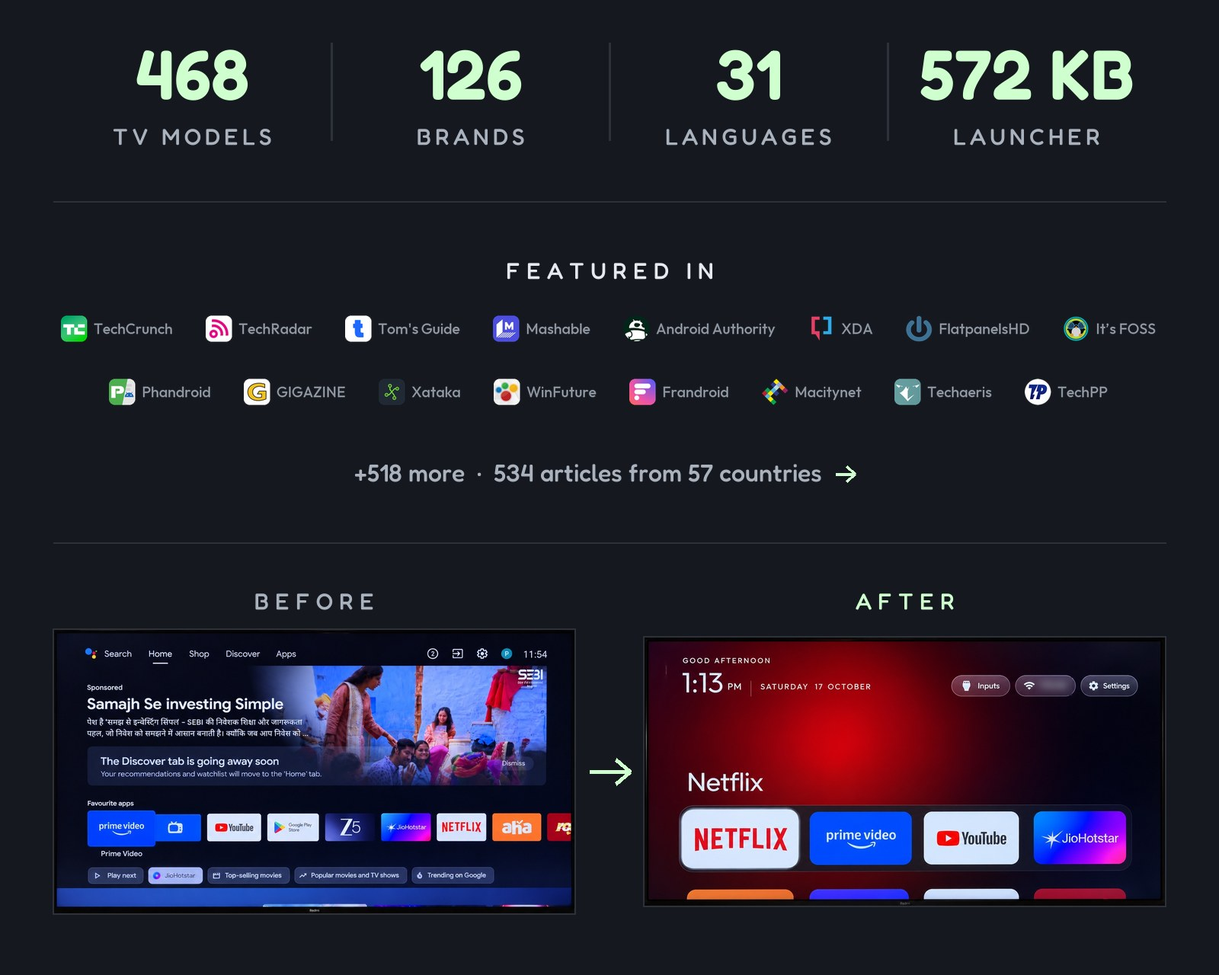
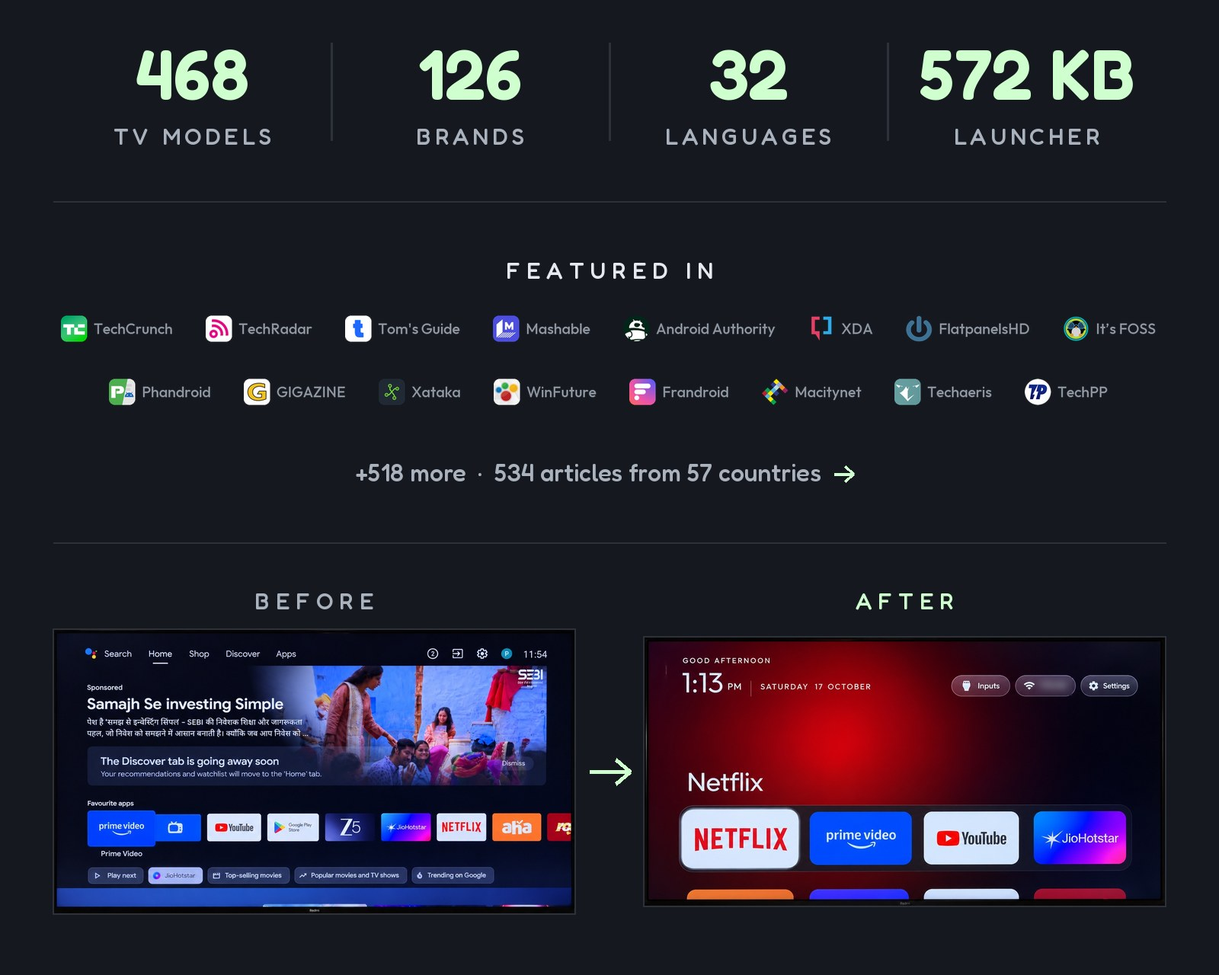
Launcher: add Greek translation

diff --git a/tests/test_readme_language_count.py b/tests/test_readme_language_count.py
@@ -54,7 +54,7 @@ LANG_ROW = {
     "README.nl.md": "talen",
     "README.pt-BR.md": "idiomas",
     "README.tr.md": "dil",
-    "README.uk.md": "мова",
+    "README.uk.md": ("мова", "мови", "мов"),
     "README.uz.md": "til",
 }
 
@@ -75,8 +75,9 @@ def rows(text):
 
 def claimed(text, word):
     """The number the page states in its `<word>` row, or None when it states none."""
+    words = {word} if isinstance(word, str) else set(word)
     for number, label in rows(text):
-        if label == word:
+        if label in words:
             return number
     return None
 
@@ -114,14 +115,16 @@ class LanguageCountTest(unittest.TestCase):
         writes the count in a word this file does not carry (a new translation's own, as README.uz.md's
         `til` was beside the Turkish `dil`) is out of its reach, and that word is the line to add here.
         """
-        words = set(LANG_ROW.values())
+        words = {word for value in LANG_ROW.values()
+                 for word in ({value} if isinstance(value, str) else value)}
         for page in front_pages():
             for number, label in rows(page.read_text(encoding="utf-8")):
                 if label not in words:
                     continue
                 with self.subTest(page=page.name, word=label):
-                    self.assertEqual(
-                        LANG_ROW.get(page.name), label,
+                    self.assertTrue(
+                        label in ({LANG_ROW[page.name]} if isinstance(LANG_ROW.get(page.name), str)
+                                  else set(LANG_ROW.get(page.name, ()))),
                         f"{page.name} states the language count as `{label}` and is not in this "
                         f"file's table, so nothing reads its {number}")
 

diff --git a/tools/readme_stats.py b/tools/readme_stats.py
@@ -84,7 +84,7 @@ try:
 except ImportError:
     sys.exit("readme_stats.py needs Pillow: tools/venv/bin/pip install -r tools/requirements-perf.txt")
 
-STATS = [("468", "TV MODELS"), ("126", "BRANDS"), ("31", "LANGUAGES"), ("572 KB", "LAUNCHER")]
+STATS = [("468", "TV MODELS"), ("126", "BRANDS"), ("32", "LANGUAGES"), ("572 KB", "LAUNCHER")]
 W, H = 1600, 240
 img = Image.new("RGB", (W, H), "#15181e"); d = ImageDraw.Draw(img)
 def f(size, wt):

diff --git a/tests/test_locales_registered.py b/tests/test_locales_registered.py
@@ -45,6 +45,7 @@ NAMES = {
     "cs": "Czech",
     "da": "Danish",
     "de": "German",
+    "el": "Greek",
     "es": "Spanish",
     "es-419": "Latin American Spanish",
     "fi": "Finnish",

diff --git a/README.uk.md b/README.uk.md
@@ -20,7 +20,7 @@
 </p>
 
 <p align="center">
-  <a href="docs/PRESS.md"><img src="docs/card.jpg" alt="468 моделей телевізорів · 126 брендів · 31 мова · лончер на 572 КБ. Про нас писали TechCrunch, TechRadar, Tom's Guide, Mashable, Android Authority, XDA, FlatpanelsHD, It's FOSS, Phandroid, GIGAZINE, Xataka, WinFuture, Frandroid, Macitynet, Techaeris, TechPP та ще 518 видань: 534 статті з 57 країн. Було: стандартний головний екран Google TV зі спонсорською рекламою. Стало: лончер Clean Your TV." width="800"></a>
+  <a href="docs/PRESS.md"><img src="docs/card.jpg" alt="468 моделей телевізорів · 126 брендів · 32 мови · лончер на 572 КБ. Про нас писали TechCrunch, TechRadar, Tom's Guide, Mashable, Android Authority, XDA, FlatpanelsHD, It's FOSS, Phandroid, GIGAZINE, Xataka, WinFuture, Frandroid, Macitynet, Techaeris, TechPP та ще 518 видань: 534 статті з 57 країн. Було: стандартний головний екран Google TV зі спонсорською рекламою. Стало: лончер Clean Your TV." width="800"></a>
 </p>
 
 ## З чого почати
@@ -285,7 +285,7 @@ Xiaomi (PatchWall). Передайте `STOCK_LAUNCHER=<package>` (`-StockLaunch
 | **Налаштування** | Порядок дока, приховані застосунки, застосунок ефірного ТБ, від 4 до 7 плиток у рядку, зменшений рух. Усе в [`config.xml`](launcher/app/src/main/res/values/config.xml) |
 | **Налаштування на телевізорі** | Утримайте OK на «Налаштуваннях», щоб відкрити налаштування лончера. Необов'язковий `launcher_settings_button` робить так, що звичайне натискання відкриває їх одразу; налаштування телевізора лишаються на сторінці налаштувань і на своїй плитці |
 | **Теми** | Тло, шпалери й розкладка з `config.json`, надісланого через Wi-Fi, без перезбирання. У [`themes/`](themes/) постачається двадцять дев'ять, включно з вбудованою `default/` |
-| **31 мова** | Дотримується мови телевізора, з повністю дзеркальним розкладом справа наліво для івриту |
+| **32 мови** | Дотримується мови телевізора, з повністю дзеркальним розкладом справа наліво для івриту |
 | **Бібліотека застосунків** | Необов'язково: перегляд усіх встановлених застосунків і додавання чи прибирання ярликів із головного екрана. Дивіться [посібник із бібліотеки застосунків](docs/app-library.md) |
 | **Меню плитки** | Увімкнено за замовчуванням (`tile_menu`): утримайте OK на плитці для «Перемістити» та «Про застосунок», а з увімкненою бібліотекою застосунків — ще й «Прибрати з головного». Вимкнено — утримання OK відкриває «Про застосунок» |
 | **Картки-модулі** | Будь-який застосунок на телевізорі може запропонувати власну плитку; ви схвалюєте кожну один раз. Дивіться [`docs/modules.md`](docs/modules.md) |

diff --git a/README.nl.md b/README.nl.md
@@ -32,7 +32,7 @@
 </p>
 
 <p align="center">
-  <a href="docs/PRESS.md"><img src="docs/card.jpg" alt="468 tv-modellen · 126 merken · 31 talen · launcher van 572 KB. Genoemd in TechCrunch, TechRadar, Tom's Guide, Mashable, Android Authority, XDA, FlatpanelsHD, It's FOSS, Phandroid, GIGAZINE, Xataka, WinFuture, Frandroid, Macitynet, Techaeris, TechPP en nog 518 media: 534 artikelen uit 57 landen. Voorheen: het standaard Google TV-startscherm met een gesponsorde advertentie. Daarna: de Clean Your TV-launcher." width="800"></a>
+  <a href="docs/PRESS.md"><img src="docs/card.jpg" alt="468 tv-modellen · 126 merken · 32 talen · launcher van 572 KB. Genoemd in TechCrunch, TechRadar, Tom's Guide, Mashable, Android Authority, XDA, FlatpanelsHD, It's FOSS, Phandroid, GIGAZINE, Xataka, WinFuture, Frandroid, Macitynet, Techaeris, TechPP en nog 518 media: 534 artikelen uit 57 landen. Voorheen: het standaard Google TV-startscherm met een gesponsorde advertentie. Daarna: de Clean Your TV-launcher." width="800"></a>
 </p>
 
 **De virale tweet:** [x.com/gathint/status/2111379569030939102](https://x.com/gathint/status/2111379569030939102)
@@ -728,7 +728,7 @@ De **tv** moet Android 8.0 (API 26) of nieuwer gebruiken. `minSdk` stelt de mini
 | **Configuratie** | Volgorde van het dock, verborgen apps, Live-tv-app, 4 tot 7 tegels per rij en minder beweging. Alles staat in [`config.xml`](launcher/app/src/main/res/values/config.xml). |
 | **Instellingen op de tv** | Houd OK ingedrukt op Instellingen om de launcherinstellingen te openen. Met de optionele instelling `launcher_settings_button` opent een gewone klik ze direct; de tv-instellingen blijven beschikbaar via de instellingenpagina en de tegel van die app. |
 | **Thema's** | Achtergrond, wallpaper en indeling komen uit een via wifi verzonden `config.json`; opnieuw bouwen is niet nodig. In [`themes/`](themes/) staan negenentwintig thema's, inclusief het ingebouwde `default/`. |
-| **31 talen** | Volgt de taal van de tv, met een volledig gespiegeld rechts-naar-links ontwerp voor Hebreeuws. |
+| **32 talen** | Volgt de taal van de tv, met een volledig gespiegeld rechts-naar-links ontwerp voor Hebreeuws. |
 | **Appbibliotheek** | Optioneel: bekijk alle geïnstalleerde apps en voeg snelkoppelingen op het startscherm toe of verwijder ze. Zie [de handleiding voor de appbibliotheek](docs/app-library.md). |
 | **Tegelmenu** | Standaard aan (`tile_menu`): houd OK ingedrukt op een tegel voor Verplaatsen en App-info, en met de appbibliotheek aan ook Verwijderen van startscherm. Staat dit uit, dan opent lang indrukken de app-info. |
 | **Modulekaarten** | Elke tv-app kan een eigen tegel aanbieden; je keurt elke app één keer goed. Zie [`docs/modules.md`](docs/modules.md). |

diff --git a/README.tr.md b/README.tr.md
@@ -20,7 +20,7 @@
 </p>
 
 <p align="center">
-  <a href="docs/PRESS.md"><img src="docs/card.jpg" alt="468 TV modeli · 126 marka · 31 dil · 572 KB başlatıcı. Yer aldığı yayınlar: TechCrunch, TechRadar, Tom's Guide, Mashable, Android Authority, XDA, FlatpanelsHD, It's FOSS, Phandroid, GIGAZINE, Xataka, WinFuture, Frandroid, Macitynet, Techaeris, TechPP ve 518 yayın daha: 57 ülkeden 534 makale. Önce: sponsorlu reklam içeren standart Google TV ana ekranı. Sonra: Clean Your TV başlatıcısı." width="800"></a>
+  <a href="docs/PRESS.md"><img src="docs/card.jpg" alt="468 TV modeli · 126 marka · 32 dil · 572 KB başlatıcı. Yer aldığı yayınlar: TechCrunch, TechRadar, Tom's Guide, Mashable, Android Authority, XDA, FlatpanelsHD, It's FOSS, Phandroid, GIGAZINE, Xataka, WinFuture, Frandroid, Macitynet, Techaeris, TechPP ve 518 yayın daha: 57 ülkeden 534 makale. Önce: sponsorlu reklam içeren standart Google TV ana ekranı. Sonra: Clean Your TV başlatıcısı." width="800"></a>
 </p>
 
 ## Buradan başlayın
@@ -284,7 +284,7 @@ bir cihazda neyin kaldığı [Sorun giderme](docs/TROUBLESHOOTING.md) belgesinde
 | **Yapılandırma** | Dock sırası, gizli uygulamalar, Canlı TV uygulaması, satır başına 4 ile 7 arası kutucuk, azaltılmış hareket. Hepsi [`config.xml`](launcher/app/src/main/res/values/config.xml) içinde |
 | **TV'deki ayarlar** | Başlatıcı ayarları için Ayarlar üzerinde OK'u basılı tutun. İsteğe bağlı `launcher_settings_button`, normal bir tıklamanın onları doğrudan açmasını sağlar; TV ayarları ayarlar sayfasında ve kendi uygulama kutucuğunda kalır. |
 | **Temalar** | Wi-Fi üzerinden gönderilen bir `config.json` ile arka plan, duvar kâğıdı ve düzen, yeniden derleme yok. Yerleşik `default/` dahil 29 tema [`themes/`](themes/) içinde gelir |
-| **31 dil** | TV'nin diline uyar; İbranice için tamamen aynalanmış, sağdan sola bir düzen sunar |
+| **32 dil** | TV'nin diline uyar; İbranice için tamamen aynalanmış, sağdan sola bir düzen sunar |
 | **Uygulama kitaplığı** | İsteğe bağlı: yüklü tüm uygulamalara göz atın ve Ana ekran kısayolları ekleyin veya kaldırın. Bkz. [uygulama kitaplığı kılavuzu](docs/app-library.md) |
 | **Kutucuk menüsü** | Varsayılan olarak açık (`tile_menu`): Taşı ve Uygulama bilgisi için bir kutucukta OK'u basılı tutun; uygulama kitaplığı açıksa Ana ekrandan kaldır da çıkar. Kapalıyken OK'u basılı tutmak Uygulama bilgisini açar |
 | **Modül kartları** | Herhangi bir TV uygulaması kendi kutucuğunu sunabilir; her birini bir kez onaylarsınız. Bkz. [`docs/modules.md`](docs/modules.md) |

diff --git a/README.de.md b/README.de.md
@@ -20,7 +20,7 @@
 </p>
 
 <p align="center">
-  <a href="docs/PRESS.md"><img src="docs/card.jpg" alt="468 TV-Modelle · 126 Marken · 31 Sprachen · Launcher mit 572 KB. Erwähnt in TechCrunch, TechRadar, Tom's Guide, Mashable, Android Authority, XDA, FlatpanelsHD, It's FOSS, Phandroid, GIGAZINE, Xataka, WinFuture, Frandroid, Macitynet, Techaeris, TechPP und 518 weitere: 534 Artikel aus 57 Ländern. Vorher: der Google-TV-Startbildschirm mit einer bezahlten Anzeige. Nachher: der Clean-Your-TV-Launcher." width="800"></a>
+  <a href="docs/PRESS.md"><img src="docs/card.jpg" alt="468 TV-Modelle · 126 Marken · 32 Sprachen · Launcher mit 572 KB. Erwähnt in TechCrunch, TechRadar, Tom's Guide, Mashable, Android Authority, XDA, FlatpanelsHD, It's FOSS, Phandroid, GIGAZINE, Xataka, WinFuture, Frandroid, Macitynet, Techaeris, TechPP und 518 weitere: 534 Artikel aus 57 Ländern. Vorher: der Google-TV-Startbildschirm mit einer bezahlten Anzeige. Nachher: der Clean-Your-TV-Launcher." width="800"></a>
 </p>
 
 ## Einstieg
@@ -262,7 +262,7 @@ Gerät übrig bleibt, steht in der [Fehlerbehebung](docs/TROUBLESHOOTING.md).
 | **Einrichten** | Dock-Reihenfolge, versteckte Apps, Live-TV-App, 4 bis 7 Kacheln je Zeile, reduzierte Bewegung. Alles in [`config.xml`](launcher/app/src/main/res/values/config.xml) |
 | **Einstellungen am Fernseher** | OK auf Einstellungen halten für die Launcher-Einstellungen. Ein optionales `launcher_settings_button` lässt einen normalen Klick sie direkt öffnen; die TV-Einstellungen bleiben auf der Einstellungsseite und ihrer App-Kachel. |
 | **Themes** | Hintergrund, Wallpaper und Layout aus einer `config.json`, über WLAN aufgespielt, ohne neuen Build. Neunundzwanzig liegen in [`themes/`](themes/), das eingebaute `default/` mitgerechnet |
-| **31 Sprachen** | Folgt der Sprache des Fernsehers, mit vollständig gespiegeltem Layout von rechts nach links für Hebräisch |
+| **32 Sprachen** | Folgt der Sprache des Fernsehers, mit vollständig gespiegeltem Layout von rechts nach links für Hebräisch |
 | **App-Bibliothek** | Optional: jede installierte App durchsehen und Home-Verknüpfungen hinzufügen oder entfernen. Siehe [die Anleitung zur App-Bibliothek](docs/app-library.md) |
 | **Kachelmenü** | Standardmäßig an (`tile_menu`): OK auf einer Kachel halten für Verschieben und App-Info, mit eingeschalteter App-Bibliothek auch Von Home entfernen. Aus: OK halten öffnet App-Info |
 | **Modul-Karten** | Jede TV-App kann eine eigene Kachel anbieten; du stimmst jeder einmal zu. Siehe [`docs/modules.md`](docs/modules.md) |

diff --git a/README.md b/README.md
@@ -32,7 +32,7 @@
 </p>
 
 <p align="center">
-  <a href="docs/PRESS.md"><img src="docs/card.jpg" alt="468 TV models · 126 brands · 31 languages · 572 KB launcher. Featured in TechCrunch, TechRadar, Tom's Guide, Mashable, Android Authority, XDA, FlatpanelsHD, It's FOSS, Phandroid, GIGAZINE, Xataka, WinFuture, Frandroid, Macitynet, Techaeris, TechPP and 518 more: 534 articles from 57 countries. Before: stock Google TV home with a sponsored ad. After: the Clean Your TV launcher." width="800"></a>
+  <a href="docs/PRESS.md"><img src="docs/card.jpg" alt="468 TV models · 126 brands · 32 languages · 572 KB launcher. Featured in TechCrunch, TechRadar, Tom's Guide, Mashable, Android Authority, XDA, FlatpanelsHD, It's FOSS, Phandroid, GIGAZINE, Xataka, WinFuture, Frandroid, Macitynet, Techaeris, TechPP and 518 more: 534 articles from 57 countries. Before: stock Google TV home with a sponsored ad. After: the Clean Your TV launcher." width="800"></a>
 </p>
 
 ## Start here
@@ -299,7 +299,7 @@ set is in [Troubleshooting](docs/TROUBLESHOOTING.md).
 | **Configure** | Dock order, hidden apps, Live TV app, 4 to 7 tiles per row, reduced motion. All in [`config.xml`](launcher/app/src/main/res/values/config.xml) |
 | **Settings on the TV** | Hold OK on Settings for launcher settings. Optional `launcher_settings_button` makes a normal click open them directly; TV settings remain on the settings page and their app tile. |
 | **Themes** | Background, wallpaper and layout from a `config.json` pushed over Wi-Fi, no rebuild. Twenty-nine ship in [`themes/`](themes/), the built-in `default/` included |
-| **31 languages** | Follows the TV's language, with a fully mirrored right-to-left layout for Hebrew |
+| **32 languages** | Follows the TV's language, with a fully mirrored right-to-left layout for Hebrew |
 | **App library** | Optional: browse every installed app and add or remove Home shortcuts. See [the app library guide](docs/app-library.md) |
 | **Tile menu** | On by default (`tile_menu`): hold OK on a tile for Move and App info, plus Remove from Home when the app library is on. Off, holding OK opens App info |
 | **Module cards** | Any TV app can offer its own tile; you approve each one once. See [`docs/modules.md`](docs/modules.md) |

diff --git a/README.he.md b/README.he.md
@@ -239,7 +239,7 @@ TV_HOST=192.168.1.50 tools/venv/bin/python -I tools/privacy.py
 | **התאמה אישית** | סדר המועדפים, אפליקציות מוסתרות, אפליקציית שידור חי, 4 עד 7 אריחים בשורה והפחתת תנועה. ההגדרות נמצאות ב־[config.xml](launcher/app/src/main/res/values/config.xml). |
 | **הגדרות בטלוויזיה** | לחיצה ארוכה על OK בכפתור ההגדרות פותחת את הגדרות מסך הבית. עם <code dir="ltr">launcher_settings_button</code> מספיקה לחיצה רגילה. הגדרות הטלוויזיה זמינות גם מדף ההגדרות ומאריח האפליקציה. |
 | **ערכות עיצוב** | רקע, תמונה ופריסה מקובץ <code dir="ltr">config.json</code> שנשלח דרך הרשת. יש 29 ערכות ב־[themes](themes/), כולל ברירת המחדל. |
-| **31 שפות** | השפה נקבעת לפי הטלוויזיה. בעברית הפריסה מוצגת מימין לשמאל. |
+| **32 שפות** | השפה נקבעת לפי הטלוויזיה. בעברית הפריסה מוצגת מימין לשמאל. |
 | **ספריית אפליקציות** | אפשר לדפדף בכל האפליקציות המותקנות ולהוסיף או להסיר קיצורי דרך ממסך הבית. [מדריך](docs/app-library.md) |
 | **תפריט אריח** | <code dir="ltr">tile_menu</code> מופעל כברירת מחדל. לחיצה ארוכה על OK מאפשרת להזיז אריח ולפתוח פרטי אפליקציה. כשספריית האפליקציות מופעלת אפשר גם להסיר את האריח מהבית. כשהתפריט כבוי, לחיצה ארוכה פותחת את פרטי האפליקציה. |
 | **כרטיסי תוספים** | אפליקציות יכולות להציע אריח שמוצג לאחר אישור חד־פעמי. [מפרט הכרטיסים](docs/modules.md) |

diff --git a/README.es.md b/README.es.md
@@ -220,7 +220,7 @@ Una pantalla de inicio nativa y muy ligera para Android TV: **unos 572 KB**, pro
 | **Configuración** | Orden del dock, aplicaciones ocultas, app de TV en directo, de 4 a 7 elementos por fila y animaciones reducidas. Todo definido en [`config.xml`](launcher/app/src/main/res/values/config.xml). |
 | **Ajustes en el televisor** | Mantén OK pulsado en Ajustes para acceder a las opciones del launcher. Opcionalmente, `launcher_settings_button` permite que una pulsación simple las abra directamente; la configuración del televisor continúa accesible desde la propia página de ajustes y mediante el icono correspondiente. |
 | **Temas** | Fondo, fondo de pantalla y diseño definidos en un `config.json` enviado por Wi-Fi, sin recompilar. 29 temas están incluidos en [`themes/`](themes/), incluyendo el `default/` integrado. |
-| **31 idiomas** | Sigue el idioma del televisor, con un diseño totalmente reflejado de derecha a izquierda en hebreo. |
+| **32 idiomas** | Sigue el idioma del televisor, con un diseño totalmente reflejado de derecha a izquierda en hebreo. |
 | **Biblioteca de aplicaciones** | Opcional: permite explorar todas las aplicaciones instaladas y agregar o retirar accesos directos de la pantalla de inicio. Consulta [la guía de la biblioteca de aplicaciones](docs/app-library.md). |
 | **Menú contextual de elementos** | Habilitado por defecto (`tile_menu`): mantén OK pulsado sobre un elemento para acceder a Mover, Quitar de la pantalla de inicio e Información de la app. Si se desactiva, mantener OK pulsado abre Información de la app directamente. |
 | **Tarjetas de módulos** | Cualquier aplicación de TV puede incorporar su propio bloque informativo; autorizas cada una una sola vez. Consulta [`docs/modules.md`](docs/modules.md). |

diff --git a/README.fr.md b/README.fr.md
@@ -285,7 +285,7 @@ décrit dans le [dépannage](docs/TROUBLESHOOTING.md).
 | **Configuration** | Ordre du dock, applications masquées, application de TV en direct, de 4 à 7 vignettes par rangée, animations réduites. Tout se trouve dans [`config.xml`](launcher/app/src/main/res/values/config.xml) |
 | **Réglages sur le téléviseur** | Maintenez OK sur Paramètres pour ouvrir les réglages du launcher. L'option `launcher_settings_button` permet de les ouvrir directement d'un simple clic ; les réglages du téléviseur restent accessibles depuis la page des réglages et leur vignette d'application. |
 | **Thèmes** | Arrière-plan, fond d'écran et disposition à partir d'un `config.json` envoyé par Wi-Fi, sans recompilation. 29 thèmes sont fournis dans [`themes/`](themes/), y compris le `default/` intégré |
-| **31 langues** | Suit la langue du téléviseur, avec une disposition de droite à gauche entièrement inversée pour l'hébreu |
+| **32 langues** | Suit la langue du téléviseur, avec une disposition de droite à gauche entièrement inversée pour l'hébreu |
 | **Bibliothèque d'applications** | Facultative : parcourez toutes les applications installées et ajoutez ou retirez des raccourcis sur l'accueil. Voir [le guide de la bibliothèque d'applications](docs/app-library.md) |
 | **Menu des vignettes** | Activé par défaut (`tile_menu`) : maintenez OK sur une vignette pour Déplacer et Infos sur l'appli, plus Retirer de l'accueil lorsque la bibliothèque d'applications est activée. Désactivé, maintenir OK ouvre Infos sur l'appli |
 | **Cartes de modules** | N'importe quelle application TV peut proposer sa propre vignette ; vous approuvez chacune une seule fois. Voir [`docs/modules.md`](docs/modules.md) |

diff --git a/README.pt-BR.md b/README.pt-BR.md
@@ -284,7 +284,7 @@ explicado em [Solução de problemas](docs/TROUBLESHOOTING.md).
 | **Configuração** | Ordem do dock, aplicativos ocultos, aplicativo de TV ao vivo, de 4 a 7 blocos por linha e animações reduzidas. Tudo em [`config.xml`](launcher/app/src/main/res/values/config.xml). |
 | **Configurações na TV** | Mantenha OK pressionado em Configurações para abrir as configurações do launcher. Opcionalmente, `launcher_settings_button` faz com que um clique normal as abra diretamente; as configurações da TV continuam disponíveis na página de configurações e no bloco do aplicativo correspondente. |
 | **Temas** | Plano de fundo, papel de parede e layout definidos em um `config.json` enviado pelo Wi-Fi, sem recompilação. 29 temas estão incluídos em [`themes/`](themes/), incluindo o `default/` integrado. |
-| **31 idiomas** | Segue o idioma da TV, com layout totalmente espelhado da direita para a esquerda em hebraico. |
+| **32 idiomas** | Segue o idioma da TV, com layout totalmente espelhado da direita para a esquerda em hebraico. |
 | **Biblioteca de aplicativos** | Opcional: permite navegar por todos os aplicativos instalados e adicionar ou remover atalhos da tela inicial. Consulte [o guia da biblioteca de aplicativos](docs/app-library.md). |
 | **Menu dos blocos** | Ativado por padrão (`tile_menu`): mantenha OK pressionado em um bloco para acessar Mover, Remover da tela inicial e Informações do app. Se estiver desativado, manter OK pressionado abre Informações do app. |
 | **Cartões de módulos** | Qualquer aplicativo de TV pode oferecer seu próprio bloco; você aprova cada um apenas uma vez. Consulte [`docs/modules.md`](docs/modules.md). |
